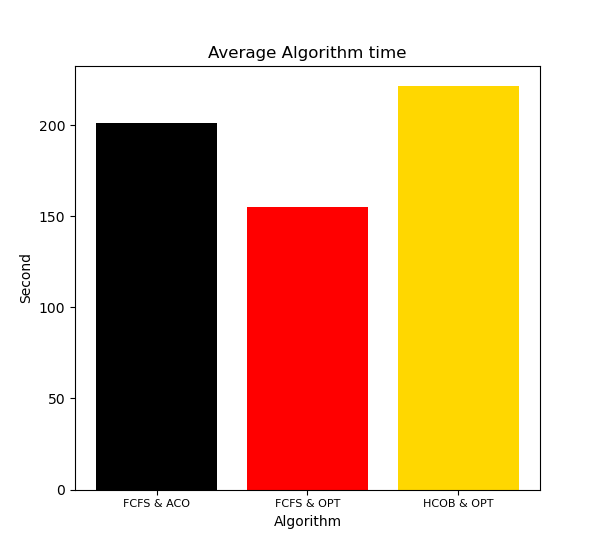
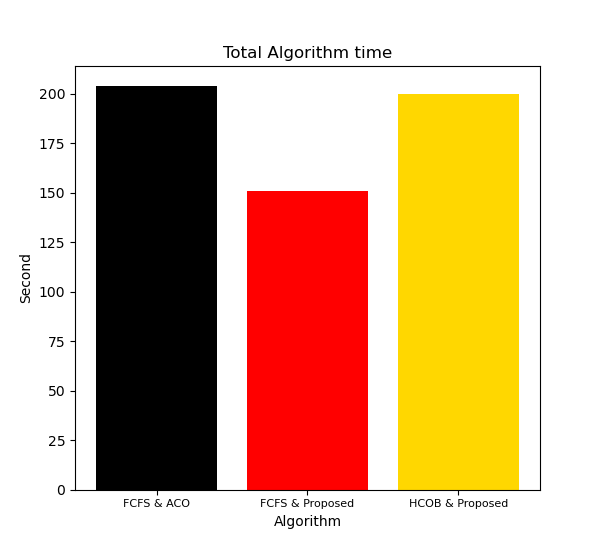
first end

diff --git a/Dynamic/HCOB.py b/Dynamic/HCOB.py
@@ -5,6 +5,7 @@ import numpy as np
 from Dynamic.DEBUG_tool import DEBUG_log,DEBUG_log_tag
 # distance_bound = 500
 additional_bound =500
+max_robot =5
 def Is_Expiration(buffer_time,expired_list,buffer_order_ind):
     return_flag = False
     for i, exp_time in enumerate(buffer_time):
@@ -42,43 +43,55 @@ def Do_Idle():
 def Do_make_Q_robot(robot_data,buffer_orders,expired_list,init_batch_size,buffer_order_ind):
     #현재 배치내에서 만기된 주문들로 일정크기의 배치 만들어서 보낸다.
     #만들고나서, 바뀐 로봇인덱스, solved_batches(전체 배치), solved_orders_index(배치가된 order 번호)를 반환해야함..
-    current_batch = []
-    current_batch_ind_in_buffer = []
-
-    #추가할 주문선별
-    start_time =time.time()
-    for ind, expired_ind in enumerate(expired_list):#만료된 주문에 대해서, 먼저 들어온 순서대로 없애버린다.
-        if ind > init_batch_size:#초기 사이즈만큼만 받는다.
-            break
-        else :
-            index_in_buffer = buffer_order_ind.index(expired_ind)#주문의 고유번호로 버퍼에서의 위치를 찾는다.
-            current_batch_ind_in_buffer.append(index_in_buffer)#버퍼에서의 위치를 저장한다.
-            current_batch.append(buffer_orders[index_in_buffer])#만료된 인덱스를 가지는 주문을 새로운 배치에 추가한다.
-
-    #solved_batch에 추가, solver_orders_index에 추가, 바뀐 로봇인덱스 추가.
 
     readonly_current_robot_batch = []
+    # 현재 로봇 정보를 가져옵니다.
     for i in range(len(robot_data['robot'])):
         readonly_current_robot_batch.append(robot_data['current_robot_batch_' + str(i)])
 
+    #피킹 중이지 않은 로봇의 인덱스를 가져옵니다.
     no_work = [i for i in range(len(readonly_current_robot_batch)) if len(readonly_current_robot_batch[i]) == 0]
+    robot_steps = np.array(copy.deepcopy(robot_data["robot_step"]))[no_work]
+
+    #가장 이동횟수가 적은로봇들의 정보를 얻어옵니다.
+    sorted_robot = np.argsort(robot_steps)
+    sorted_target_ind = (np.array(no_work)[sorted_robot]).tolist()
+    #만료된 주문에서 로봇 대수만큼 할당해줍니다.
+    #추가할 주문선별
+    start_time =time.time()
+    before = copy.deepcopy(expired_list)
     solved_batches = copy.deepcopy(readonly_current_robot_batch)  # 현재의 로봇배치
     changed_robot_index = []  # 배치가 바뀐 로봇의 인덱스
     solved_orders_index = []
     readonly_current_robot = copy.deepcopy(robot_data["robot"])
-    robot_steps = np.array(copy.deepcopy(robot_data["robot_step"]))[no_work]
+    computation_count =0
 
-    min_step = np.argmin(robot_steps)
+    for robot_no_picking in sorted_target_ind: #일하지 않는 로봇에 대해서
+        after = copy.deepcopy(before)
+        current_batch = []
+        current_batch_ind_in_buffer = []
+        for ind, expired_ind in enumerate(before):#만료된 주문에 대해서, 먼저 들어온 순서대로 없애버린다.
+            if ind > init_batch_size:#초기 사이즈만큼만 받는다.
+                break
+            else :
+                index_in_buffer = buffer_order_ind.index(expired_ind)#주문의 고유번호로 버퍼에서의 위치를 찾는다.
+                current_batch_ind_in_buffer.append(index_in_buffer)#버퍼에서의 위치를 저장한다.
+                current_batch.append(buffer_orders[index_in_buffer])#만료된 인덱스를 가지는 주문을 새로운 배치에 추가한다.
+                del after[0]# after의 첫번째 원소를 지웁니다.
+        before = copy.deepcopy(after)
+        changed_robot_index.append(robot_no_picking)#바뀐 로봇인덱스에 추가합니다.
+        solved_batches[robot_no_picking] = current_batch
+        solved_orders_index += current_batch_ind_in_buffer
+        if len(after) ==0 or computation_count ==max_robot:
+            break
 
-    target_ind = no_work[min_step]
-    solved_batches[target_ind] = current_batch  # 비어있는 로봇에게 추가합니다.
-    # print(solved_batches[target_ind])
-    changed_robot_index.append(target_ind)
-    # solved_orders_index += expired_list#실제 만료되는 인덱스
-    solved_orders_index += current_batch_ind_in_buffer
+        computation_count += 1
+
+
+
 
     #후처리, 풀린 order에 대한 기록을 지워야합니다. 현재 버퍼에서의 인덱스를 넣습니다.
-    deleted_order = current_batch_ind_in_buffer#버퍼내에서의 인덱스면... 실제 order로써의 인덱스가 같을까?
+    deleted_order = solved_orders_index#버퍼내에서의 인덱스면... 실제 order로써의 인덱스가 같을까?
     return solved_orders_index,solved_batches,changed_robot_index, deleted_order
 
 def Is_good_to_picking_robot_apply(robot_data,buffer_orders,buffer_order_ind, expired_list,max_batch_size,node_point_y_x,bound_size,no_bound = False):
@@ -170,32 +183,48 @@ def Do_apply_order(good_match,robot_data,buffer_order_ind,buffer_orders,buffer_t
     return solved_orders_index,solved_batches,changed_robot_index
 
 def Is_maded_good_batch_in_Queue(buffer_orders,node_point_y_x,init_batch_size,bound_size):
-    #좋은 집합이 만들어지는가?
-    for i, seed_order_ind in enumerate(buffer_orders):
-        seed_order = [node_point_y_x[j] for j in seed_order_ind]
-        other_order =copy.deepcopy(buffer_orders)
-        del other_order[i]
-        item_min_distance = []
-        for k, other_order_ind in enumerate(other_order):
-           one_other_order = [node_point_y_x[j] for j in other_order_ind]
-           distance = find_small_dis(seed_order,one_other_order)
-           item_min_distance.append(distance)
-        item_dis = np.array(item_min_distance)
-        same_batch_ind = np.argsort(item_dis).tolist()[:init_batch_size-1]
+    #좋은 집합이 만들어지는가? 5개 정도의?
+    order_set = copy.deepcopy(buffer_orders)
+    return_set = []
+    for j in range(max_robot):
+        good_order = []
+        for i, seed_order_ind in enumerate(order_set):
+            seed_order = [node_point_y_x[j] for j in seed_order_ind]#시드 주문을 여기다가 넣는다.
+            other_order =copy.deepcopy(order_set)
+            del other_order[i]
+            item_min_distance = []
+            for k, other_order_ind in enumerate(other_order):
+               one_other_order = [node_point_y_x[j] for j in other_order_ind]
+               distance = find_small_dis(seed_order,one_other_order)
+               item_min_distance.append(distance)
+            item_dis = np.array(item_min_distance)
+            same_batch_ind = np.argsort(item_dis).tolist()[:init_batch_size-1]
 
 
-        if len(same_batch_ind) ==0:
-            continue
-        # print("마지막 거리", item_dis[same_batch_ind[-1]]/len(seed_order_ind))
-        if item_dis[same_batch_ind[-1]]/len(seed_order_ind) >bound_size+additional_bound:
-            continue
-        else :
-            #현재 seed order(i)에 대해서, same_batch_ind에 속하는 order를 찾아서 하나로 묶는다.
-            seed_order_last = i
-            other_order_last = [ind  if ind <i else ind+1 for ind in same_batch_ind]#만약에 seed의 index보다 크거나 같다면 인덱스 값을 하나 더 올린다.
-            other_order_last.append(seed_order_last)
-            return other_order_last
-    return []
+            if len(same_batch_ind) ==0:
+                continue
+            # print("마지막 거리", item_dis[same_batch_ind[-1]]/len(seed_order_ind))
+            if item_dis[same_batch_ind[-1]]/len(seed_order_ind) >bound_size+additional_bound:
+                continue
+            else :
+                #현재 seed order(i)에 대해서, same_batch_ind에 속하는 order를 찾아서 하나로 묶는다.
+                seed_order_last = i
+                other_order_last = [ind  if ind <i else ind+1 for ind in same_batch_ind]#만약에 seed의 index보다 크거나 같다면 인덱스 값을 하나 더 올린다.
+                # print("이게 크다고?", other_order_last)
+                other_order_last.append(seed_order_last)
+                other_order_last.sort(reverse=True)
+                good_order = other_order_last
+                return_set.append(good_order)
+                break
+        # print(""good_order)
+        for k in good_order:
+            try:
+                del order_set[k]
+            except IndexError:
+                print(order_set)
+                print("없는 성분입니다.",k)
+                time.sleep(10)
+    return return_set
 def Do_make_Q_robot_new_order(good_match, robot_data, buffer_order_ind, buffer_orders, buffer_time):
     # 만들고나서, 바뀐 로봇인덱스, solved_batches(전체 배치), solved_orders_index(배치가된 order 번호)를 반환해야함..
     readonly_current_robot_batch = []
@@ -205,18 +234,36 @@ def Do_make_Q_robot_new_order(good_match, robot_data, buffer_order_ind, buffer_o
     # for ind, possible_batch in enumerate(solved_batches):
     #     if len(possible_batch) ==0:
     #         good_robot =ind
-    no_work = [i for i in range(len(readonly_current_robot_batch)) if len(robot_data['current_robot_batch_' + str(i)]) == 0]
+    no_work = [i for i in range(len(readonly_current_robot_batch)) if len(readonly_current_robot_batch[i]) == 0]
+    # print("일 안하는 로봇",no_work)
+    robot_steps = np.array(copy.deepcopy(robot_data["robot_step"]))[no_work]
+
+    # 가장 이동횟수가 적은로봇들의 정보를 얻어옵니다.
+    # print(robot_steps)
+    sorted_robot = np.argsort(robot_steps)
+    # print("정렬된 로봇 인덱스", sorted_robot)
+    sorted_target_ind = (np.array(no_work)[sorted_robot]).tolist()
+    # print("피킹안하는 로봇중에서 step수가 작은것",sorted_target_ind)
+
     solved_batches = copy.deepcopy(readonly_current_robot_batch)
     changed_robot_index = []  # 배치가 바뀐 로봇의 인덱스
     solved_orders_index = []
-    robot_steps = np.array(copy.deepcopy(robot_data["robot_step"]))[no_work]
-    min_step = np.argmin(robot_steps)
-    target_ind = no_work[min_step]
-    for i in good_match:
-        solved_batches[target_ind].append(buffer_orders[i])#해당하는 order들을 추가한다.
+    # robot_steps = np.array(copy.deepcopy(robot_data["robot_step"]))[no_work]
+    # min_step = np.argmin(robot_steps)
+    # target_ind = no_work[min_step]
+    deleted_order = []
+    for match in good_match:
+        for order_in_match in match:
+            solved_batches[sorted_target_ind[0]].append(buffer_orders[order_in_match])  # 해당하는 order들을 추가한다.
+        deleted_order += match
+        changed_robot_index.append(sorted_target_ind[0])
+        del sorted_target_ind[0]
+        if len(sorted_target_ind) ==0:
+            break
 
-    changed_robot_index = [target_ind]
-    deleted_order = good_match
+
+
+    # changed_robot_index = [target_ind]
     solved_orders_index = deleted_order
     deleted_order.sort(reverse=True)
     for order_ind in deleted_order:

diff --git a/Dynamic/Online_orderbatch.py b/Dynamic/Online_orderbatch.py
@@ -147,7 +147,7 @@ def online_order_batch_HCOB(readonly_orders, init_batch_size, max_batch_size, ro
                                 buffer_orders,
                                 expired_list,
                                 init_batch_size,
-                                buffer_order_ind)# 현재 남는 order랑 유사도가 좋은 order를 할당 및 새로운 로봇 출발
+                                buffer_order_ind)# 현재 남는 order랑 유사도가 좋은 order를 할당 및 새로운 로봇 출발~~~~~~~~~~~~~~~~~~~~~~~~~~~~~~~~
                 DEBUG_log_tag("4. 이동중이지 않은 로봇에게 유통기한이 지난 order를 할당하는데 걸리는 시간 ", time.time() - test_time)
                 Delete_orders_in_Buffer(buffer_order_ind,buffer_orders,buffer_time,deleted_order)
             else:# 모든 로봇이 바쁘다면?
@@ -179,7 +179,7 @@ def online_order_batch_HCOB(readonly_orders, init_batch_size, max_batch_size, ro
                                         buffer_orders,
                                         expired_list,
                                         init_batch_size,
-                                        buffer_order_ind)  # 현재 남는 order랑 유사도가 좋은 order를 할당 및 새로운 로봇 출발
+                                        buffer_order_ind)  # 현재 남는 order랑 유사도가 좋은 order를 할당 및  새로운 로봇 출발~~~~~~~~~~~~~~~~~~~~~~~~~~~~~~~~
                     DEBUG_log_tag("7. 남은 로봇에게 유연하게 할당하는 데 걸리는 시간", time.time() - check_time)
                     Delete_orders_in_Buffer(buffer_order_ind, buffer_orders, buffer_time, deleted_order)  # 현재 남는 order랑 유사도가 좋은 order를 할당 및 새로운 로봇 출발
                 else:
@@ -231,7 +231,7 @@ def online_order_batch_HCOB(readonly_orders, init_batch_size, max_batch_size, ro
                                                   robot_data,
                                                   buffer_order_ind,
                                                   buffer_orders,
-                                                  buffer_time)# 현재 남는 order랑 유사도가 좋은 order를 할당 및 새로운 로봇 출발
+                                                  buffer_time)# 현재 남는 order랑 유사도가 좋은 order를 할당 및  새로운 로봇 출발~~~~~~~~~~~~~~~~~~~~~~~~~~~~~~~~
                         # print("do make q",time.time()-check_time)
                         # print("15. 남은 로봇중에 괜찮아서 넣을게")
                     else:
@@ -252,7 +252,7 @@ def online_order_batch_HCOB(readonly_orders, init_batch_size, max_batch_size, ro
                                                                                                          robot_data,
                                                                                                          buffer_order_ind,
                                                                                                          buffer_orders,
-                                                                                                         buffer_time)  # 현재 남는 order랑 유사도가 좋은 order를 할당 및 새로운 로봇 출발
+                                                                                                         buffer_time)  # 현재 남는 order랑 유사도가 좋은 order를 할당 및  새로운 로봇 출발~~~~~~~~~~~~~~~~~~~~~~~~~~~~~~~~
                     # print("20. 괜찮은 주문이 있어서 출발")
                 else:
                     Do_save_in_Queue()  # 아직 애매한 배치면 저장해버린다.
@@ -263,7 +263,7 @@ def online_order_batch_HCOB(readonly_orders, init_batch_size, max_batch_size, ro
     # print("이번 step에 풀린 index : ", solved_orders_index)
     # print("현재까지 풀린 배치들 : ", solved_batches)
     # print("배치가 수정된 로봇들 : ", changed_robot_index)
-    # print(" ")
+    # print("남은 주문 수", len(online_order_batch_HCOB.past_order))
     # print(time.time()-start_time)
     # print(solved_batches, solved_orders_index, changed_robot_index)
     return solved_orders_index,solved_batches,changed_robot_index

diff --git a/Dynamic/process_tsp_solver.py b/Dynamic/process_tsp_solver.py
@@ -32,7 +32,7 @@ class procees_tsp_solver:
 
         self.work_time = 0
 
-        self.bound_size = 400
+        self.bound_size = 300
         self.expire_time = 10 # 30 /60 ~ 낮을수록 좀더 좋은 결과에 가까운듯함
 
     def run(self, order_data,solver_data,robot_data):
@@ -83,6 +83,7 @@ class procees_tsp_solver:
             #다끝났는지 확인하는 법.. 일단. 더이상 order를 생성 못해야함. orders도 확인해야함. 모든 로봇들이 새로운 배치를 기다리는지도 확인해야함.
             real_time_2 = time.time()
             # print("연산하는데 걸리는시간 ",time.time()-real_time)
+            # print("주문 수 ", len(order_data["orders"]))
 
             self.is_simulation_end(solved_orders_index, changed_robot_index,robot_data)
             if self.all_mission_clear:
@@ -241,6 +242,10 @@ class procees_tsp_solver:
         for robot in robot_data["robot"]:
             temp_list.append(robot.step)
         robot_data["robot_step"] = copy.deepcopy(temp_list)
+        # print([robot_data["full_algorithm_time"],
+        #        robot_data["full_algorithm_count"],
+        #        robot_data["completion_time"],
+        #        robot_data["robot_step"]], sum(robot_data["robot_step"]))
         self.algorithm_time =0
         self.algorithm_count =0
         self.work_time = 0

diff --git a/Dynamic/result_view.py b/Dynamic/result_view.py
@@ -250,10 +250,10 @@ class result_sim_view(QWidget):
                                           self.robot_mover_data["completion_time"],
                                           self.robot_mover_data["robot_step"]])
         '''
-        algorithm_name = ['FCFS & ACO', "FCFS & OPT", "HCOB & OPT"]
+        algorithm_name = ['FCFS & ACO', "FCFS & Proposed", "HCOB & Proposed"]
         algorithm_color = ['black', 'red', 'gold']
         fig = plt.figure(figsize=(6, 5.5))
-        plt.title("Average Algorithm time", fontsize=12)
+        plt.title("Total Algorithm time", fontsize=12)
         # plt.bar(np.arange(3), np.array([self.saved_result[0][0]/self.saved_result[0][1],
         #                                  self.saved_result[1][0]/self.saved_result[1][1],
         #                                  self.saved_result[2][0]/self.saved_result[2][1]]),

diff --git a/Dynamic/DEBUG_tool.py b/Dynamic/DEBUG_tool.py
@@ -1,4 +1,4 @@
-LEVEL = "SIMPLE"# NONE, SIMPLE, DETAIL
+LEVEL = "NONE"# NONE, SIMPLE, DETAIL
 
 
 def DEBUG_log(s,s_level ="SIMPLE"):

diff --git a/README.md b/README.md
@@ -97,9 +97,8 @@
 ### 추가내역 
 - 21-11-21 Dynamic tsp와 online order picking을 위한 시뮬레이션 추가
 - 21-11-23 GUI추가 및 파라미터 조정파트 생성. 큰버그 수정
-- 21-11-23 : 다양한 결과보는 부분 추가. 아직 조정필요
-- 21-11-28 : Queue에서 batch를 생성하는경우에는 bound를 개선, 만료시간을 빠르게하여 지연되는것을 방지.
-- 21-12-02 : 에러수정, 2차원 공유변수 일부수정
+- 21-11-23 09:00 : 다양한 결과보는 부분 추가. 아직 조정필요
+- 21-11-28 09:00 : Queue에서 batch를 생성하는경우에는 bound를 개선, 만료시간을 빠르게하여 지연되는것을 방지.
 
 <a name="footnote_1">[1] Task allocation </a>: 비슷한 작업을 묶어서 멀티 로봇에게 실시간으로 작업을 분배 
 
